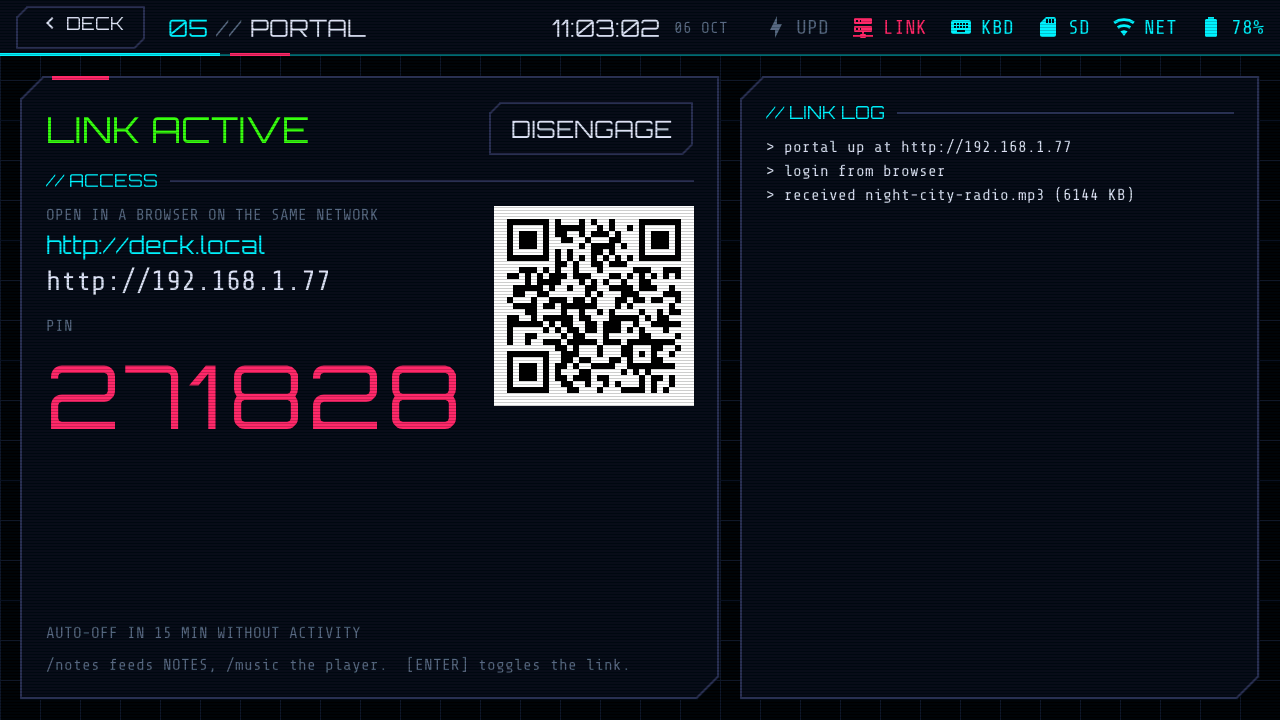
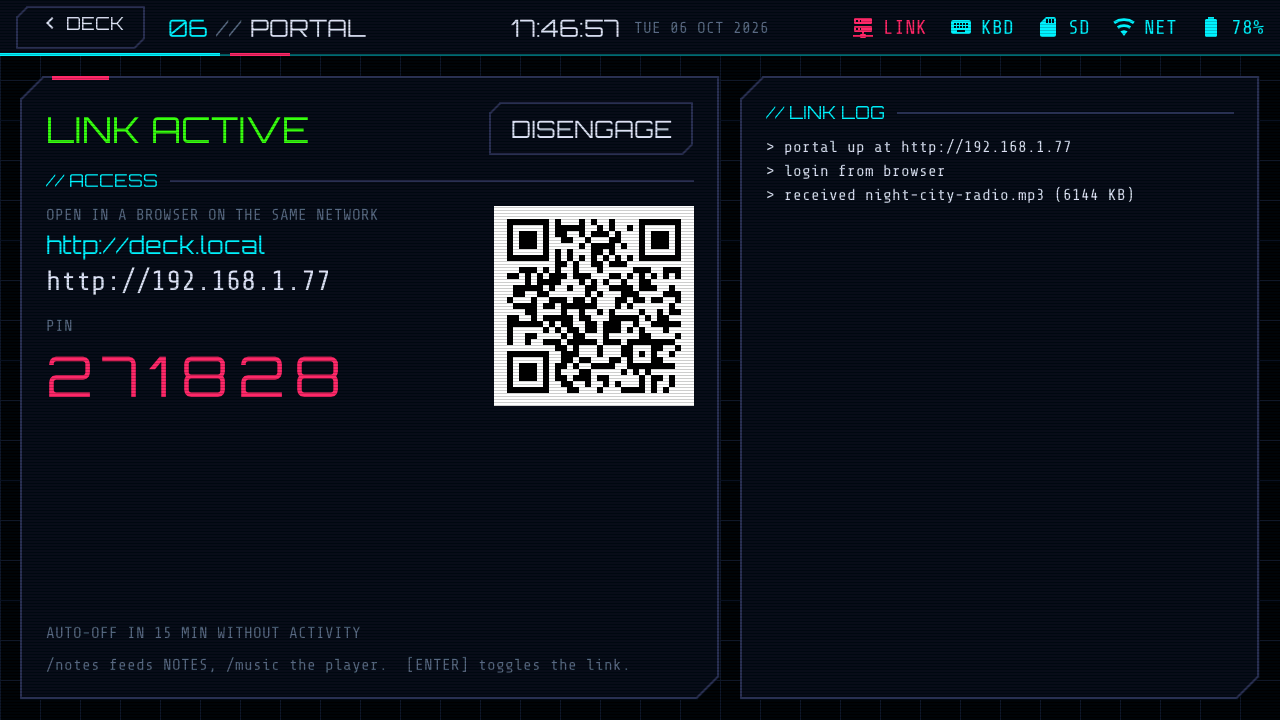
Portal: never stop the HTTP server (IDF 5.4.0 vTaskDeleteWithCaps double free crashed the deck on DISENGAGE), close it instead; smaller PIN so it clears the QR code

Changed region(s): [[0.0312, 0.4889, 0.375, 0.6111], [0.4062, 0.0306, 0.6562, 0.0611]]

diff --git a/components/deck_portal/portal.c b/components/deck_portal/portal.c
@@ -51,7 +51,12 @@ extern const char index_html_end[] asm("_binary_index_html_end");
 #define MAX_PIN_FAILS 5
 #define MAX_STALLS 3   /* consecutive receive timeouts before an upload is dropped */
 
+/* The server starts on the first ENGAGE and is never stopped: stopping it in
+ * ESP-IDF 5.4.0 runs vTaskDeleteWithCaps() on the server task, which can free
+ * its memory twice (a race fixed in IDF 5.5) and crash the deck. DISENGAGE
+ * closes the portal instead: s_open goes false and every request is refused. */
 static httpd_handle_t s_server;
+static volatile bool s_open;
 static char s_pin[7];
 static char s_token[33];
 static int s_pin_fails;
@@ -213,6 +218,7 @@ static bool authed(httpd_req_t *req)
 
 #define REQUIRE_AUTH(req)                                                         \
     do {                                                                          \
+        if (!s_open) return fail(req, "403 Forbidden", "portal closed");          \
         if (!trusted(req)) return fail(req, "421 Misdirected Request", "wrong host"); \
         if (!authed(req)) return fail(req, "401 Unauthorized", "login");          \
         touch();                                                                  \
@@ -222,6 +228,7 @@ static bool authed(httpd_req_t *req)
 
 static esp_err_t h_index(httpd_req_t *req)
 {
+    if (!s_open) return fail(req, "403 Forbidden", "portal closed");
     if (!trusted(req)) return fail(req, "421 Misdirected Request", "wrong host");
     httpd_resp_set_type(req, "text/html; charset=utf-8");
     httpd_resp_set_hdr(req, "X-Content-Type-Options", "nosniff");
@@ -234,6 +241,7 @@ static esp_err_t h_index(httpd_req_t *req)
 
 static esp_err_t h_login(httpd_req_t *req)
 {
+    if (!s_open) return fail(req, "403 Forbidden", "portal closed");
     /* No touch() here: failed guesses must not keep the portal alive. */
     if (!trusted(req)) return fail(req, "421 Misdirected Request", "wrong host");
     if (esp_timer_get_time() < s_lock_until) return fail(req, "429 Too Many Requests", "locked, wait 30 s");
@@ -366,6 +374,10 @@ static esp_err_t h_upload(httpd_req_t *req)
     int stalls     = 0;
     s_busy         = true;
     while (ok && left > 0) {
+        if (!s_open) {
+            ok = false; /* disengaged mid-upload */
+            break;
+        }
         int r = httpd_req_recv(req, buf, left < IO_BUF ? left : IO_BUF);
         if (r == HTTPD_SOCK_ERR_TIMEOUT) {
             /* A client that stops sending would otherwise hold the (single)
@@ -484,7 +496,7 @@ static void ensure_folders(void)
 
 bool portal_start(void)
 {
-    if (s_server) return true;
+    if (s_open) return true;
     if (hal_storage_root() == NULL || net_state() != NET_CONNECTED) return false;
     if (s_ev_lock == NULL) s_ev_lock = xSemaphoreCreateMutex();
 
@@ -502,7 +514,7 @@ bool portal_start(void)
     cfg.recv_wait_timeout = 20;
     cfg.send_wait_timeout = 20;
     cfg.max_open_sockets  = 5;
-    if (httpd_start(&s_server, &cfg) != ESP_OK) {
+    if (s_server == NULL && httpd_start(&s_server, &cfg) != ESP_OK) {
         s_server = NULL;
         return false;
     }
@@ -517,6 +529,7 @@ bool portal_start(void)
         {.uri = "/api/delete", .method = HTTP_POST, .handler = h_delete},
         {.uri = "/api/rename", .method = HTTP_POST, .handler = h_rename},
     };
+    /* Registering again on a reopen just fails harmlessly (already there). */
     for (size_t i = 0; i < sizeof(uris) / sizeof(uris[0]); i++) httpd_register_uri_handler(s_server, &uris[i]);
 
     if (!s_mdns_up && mdns_init() == ESP_OK) {
@@ -527,21 +540,28 @@ bool portal_start(void)
     if (s_mdns_up) mdns_service_add(NULL, "_http", "_tcp", 80, NULL, 0);
 
     touch();
+    s_open = true;
     event(false, "portal up at http://%s", net_ip());
     return true;
 }
 
 void portal_stop(void)
 {
-    if (s_server == NULL) return;
-    httpd_stop(s_server);
-    s_server = NULL;
-    if (s_mdns_up) mdns_service_remove("_http", "_tcp");
+    if (!s_open) return;
+    s_open     = false;
     s_token[0] = '\0';
+    /* Drop every open connection; an upload in progress fails its next
+     * receive and cleans up its .part file. */
+    int fds[8];
+    size_t n = sizeof(fds) / sizeof(fds[0]);
+    if (s_server && httpd_get_client_list(s_server, &n, fds) == ESP_OK) {
+        for (size_t i = 0; i < n; i++) httpd_sess_trigger_close(s_server, fds[i]);
+    }
+    if (s_mdns_up) mdns_service_remove("_http", "_tcp");
     event(false, "portal down");
 }
 
-bool portal_running(void) { return s_server != NULL; }
+bool portal_running(void) { return s_open; }
 const char *portal_pin(void) { return s_pin; }
 const char *portal_host(void) { return "deck.local"; }
 uint32_t portal_idle_s(void) { return now_s() - s_last_req_s; }
@@ -549,12 +569,12 @@ bool portal_busy(void) { return s_busy; }
 
 bool portal_tick(void)
 {
-    if (s_server && !s_busy && portal_idle_s() > PORTAL_IDLE_OFF_S) {
+    if (s_open && !s_busy && portal_idle_s() > PORTAL_IDLE_OFF_S) {
         event(false, "idle %d min, shutting down", PORTAL_IDLE_OFF_S / 60);
         portal_stop();
         return true;
     }
-    if (s_server && net_state() != NET_CONNECTED) {
+    if (s_open && net_state() != NET_CONNECTED) {
         event(true, "network lost, shutting down");
         portal_stop();
         return true;

diff --git a/apps/app_portal/app_portal.c b/apps/app_portal/app_portal.c
@@ -173,8 +173,10 @@ static bool start(deck_app_t *self, lv_obj_t *parent)
     s_ui.url_ip   = deck_label(txt, g_font.mono_l, g_pal.text, "");
     lv_obj_t *pl  = deck_label(txt, g_font.mono_s, g_pal.dim, "PIN");
     lv_obj_set_style_margin_top(pl, 14, 0);
-    s_ui.pin = deck_label(txt, g_font.disp_hero, g_pal.accent2, "");
-    lv_obj_set_style_text_letter_space(s_ui.pin, 6, 0);
+    /* disp_xl, not disp_hero: six wide digits (0s and 8s) in the hero font
+     * ran under the QR code. */
+    s_ui.pin = deck_label(txt, g_font.disp_xl, g_pal.accent2, "");
+    lv_obj_set_style_text_letter_space(s_ui.pin, 10, 0);
 
     s_ui.qr = lv_qrcode_create(s_ui.on_box);
     lv_qrcode_set_size(s_ui.qr, 200);

diff --git a/sim/portal_sim.c b/sim/portal_sim.c
@@ -3,6 +3,7 @@
 #include "deck_portal.h"
 
 #include <stdio.h>
+#include <stdlib.h>
 #include <string.h>
 
 #include "deck_net.h"
@@ -39,7 +40,7 @@ void portal_stop(void)
 }
 
 bool portal_running(void) { return s_on; }
-const char *portal_pin(void) { return "271828"; }
+const char *portal_pin(void) { return getenv("SIM_PIN") ? getenv("SIM_PIN") : "271828"; }
 const char *portal_host(void) { return "deck.local"; }
 uint32_t portal_idle_s(void) { return s_on ? lv_tick_elaps(s_started) / 1000 : 0; }
 bool portal_busy(void) { return false; }

diff --git a/ROADMAP.md b/ROADMAP.md
@@ -117,6 +117,12 @@ add-on). Revisit after v1.0.
 - [x] SYSTEM > UPDATE and the popup share one install screen
 - [x] Checkpoint: released v1.0.0; the deck on the 1.0 beta offered it in the popup and installed it
 
+## Next: ESP-IDF 5.5
+
+- Move from IDF 5.4.0 to 5.5: two 5.4.0 bugs have bitten already (the self-delete race in `vTaskDeleteWithCaps` that crashed the portal on DISENGAGE, fixed in 5.5; worked around by never stopping the HTTP server)
+- Re-test display (PPA/DSI), ESP-Hosted Wi-Fi, LVGL port, codec, OTA and NVS encryption on the new IDF before releasing
+- Checkpoint: a beta on 5.5 passes the full module tour on hardware
+
 ## Next: Screen timeout and clock screensaver
 
 - SYSTEM > SCREEN TIMEOUT: off, 1, 2, 5, 10 or 30 minutes without a key or touch
